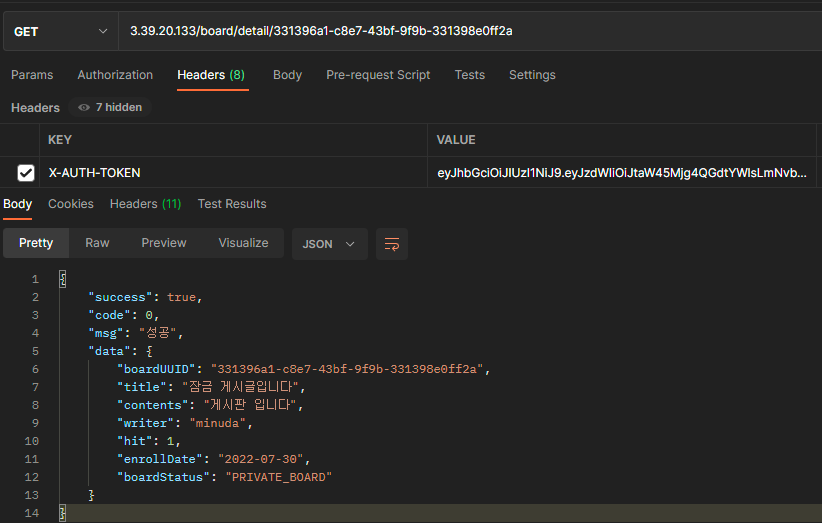
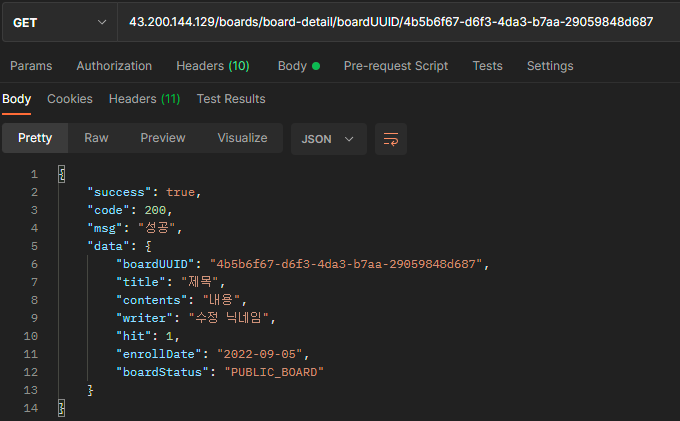
UPDATE : readme 서비스 기능 설명 수정 및 이미지 일부 변경 / 멤버 테이블 매핑 일부 수정

diff --git a/src/main/java/com/board/domain/member/entity/Member.java b/src/main/java/com/board/domain/member/entity/Member.java
@@ -69,7 +69,7 @@ public class Member {
     private  Boolean emailAuth;
 
     // 조인컬럼 (Baord)
-    @OneToMany(fetch = FetchType.LAZY)
+    @OneToMany(mappedBy = "writer", fetch = FetchType.LAZY, cascade = CascadeType.ALL, orphanRemoval = true)
     @JsonManagedReference
     private List<Board> boardList = new ArrayList<>();
 

diff --git a/README.md b/README.md
@@ -82,11 +82,10 @@
 
 </details>
 
+
 </br>
 
 ## 프로젝트 히스토리
-
-<details><summary>세부정보</summary>
 
 - 히스토리
   - 2022/07/25 ~ 31 : 회원-게시판 기능 구현
@@ -100,24 +99,21 @@
         - After ex) board = board.update(requestDTO.toEntity())
     - 쇼핑 (상품 / 장바구니 / 주문) 기능 추가 구현
 
-</details>
-
-
 </br>
 
 ## 기술 스택
-- Spring Boot (API Server)
-- Spring Security (Security)
-- JPA & QueryDSL (ORM)
-- MySQL (8.0 / Google Cloud SQL) (RDB)
-- AWS EC2 (Infra)
-- AWS S3 (Build Store)
-- ~Travis CI & AWS Codedeploy (CI/CD)~ - travis 무료 크레딧 만료로 git action으로 변경
-- Git Action & AWS Codedeploy (CI/CD) 
-- Nginx (Reverse Proxy Server)
-- Postman (Documentation)
-- DBeaver (Database tool)
-- IntelliJ (Development tool)
+- `Spring Boot (API Server)`
+- `Spring Security (Security)`
+- `JPA & QueryDSL (ORM)`
+- `MySQL (8.0 / Google Cloud SQL) (RDB)`
+- `AWS EC2 (Infra)`
+- `AWS S3 (Build Store)`
+- `~Travis CI & AWS Codedeploy (CI/CD)~ - travis 무료 크레딧 만료로 git action으로 변경`
+- `Git Action & AWS Codedeploy (CI/CD)`
+- `Nginx (Reverse Proxy Server)`
+- `Postman (Documentation)`
+- `DBeaver (Database tool)`
+- `IntelliJ (Development tool)`
 
 </br>
 
@@ -127,9 +123,9 @@
 
 </br>
 
-## 기능 및 사용방법
+## 서비스 기능 안내
 > JWT를 적용하여 일부 API를 제외하고는 토큰을 통해 접근 할 수 있습니다.
-
+>
 > 토큰 없이 접근가능한 API는 다음과 같습니다.
 > - "/sings/**" - 가입 / 로그인 / 토큰 재발행 / 이메일 인증
 > - "/exception/**" - 예외처리
@@ -137,29 +133,39 @@
 > - "/actuator/**" - 애플리케이션 상태 확인
 > - "/test" - 테스트
 
+
 <br/>
 
-### 테스트 계정
+### 테스트 계정 및 토큰 인증 안내
 ```bash 
-* email 
-  - wjdalsdnchlr@naver.com
-
+* email : wjdalsdnchlr@naver.com
 * password : qwer1234
+
+---
+
+* HTTP 헤더
+key : X-AUTH-TOKEN
+value : 엑세스 토큰값 (로그인시 Response 값으로 확인할 수 있습니다.)
+
 ```
 
 <br/>
 
 ### 회원가입
+
+<details><summary>세부정보</summary>
   
 ```bash 
 Post
-* 회원가입 : 3.39.20.133/sign/register
+* 회원가입 : 43.200.144.129/signs/register
 {
     "email" : "이메일주소",
     "password" : "패스워드",
     "nickname" : "닉네임"
 }
+
 ```
+
 <p align="center">
 <img src = "./img/join.png" width=100%>
 </p>
@@ -168,14 +174,19 @@ Post
 > * 회원가입 후 이메일 인증을 진행해야 정상적으로 로그인이 됩니다.
 > * 이메일 미 인증 후 로그인 시 이메일 인증을 해야된다는 오류 메시지가 전달됩니다.
 
+</details>
+
 <br/>
 
+
 ### 이메일 인증
+
+<details><summary>세부정보</summary>
   
 ```bash 
 Get
-* 이메일 인증 : 3.39.20.133/sign/confirm-email?email=이메일주소&authToken=엑세스토큰
-* 엑세스 토큰 유효시간 : 5분
+* 이메일 인증 : 43.200.144.129/sign/confirm-email?email=이메일주소&authToken=엑세스토큰
+* 인증 유효시간 : 5분
 * 회원가입 시 Response 값으로 나왔던 엑세스 토큰과 이메일주소로 진행하면 됩니다.
 * 인증방식 : 
   - Postman을 통한 인증방식
@@ -193,13 +204,17 @@ Get
 > * 회원가입 후 이메일 인증을 진행해야 정상적으로 로그인이 됩니다.
 > * 이메일 미 인증 후 로그인 시 이메일 인증을 해야된다는 오류 메시지가 전달됩니다.
 
+</details>
+
 <br/>
 
 ### 로그인
+
+<details><summary>세부정보</summary>
   
 ```bash 
 Post
-* 로그인 : 3.39.20.133/sign/login
+* 로그인 : 43.200.144.129/signs/login
 * 엑세스 토큰 유효시간 : 30분
 * 재발행 토큰 유효기간 : 7일
 
@@ -216,13 +231,17 @@ Post
 > * Response 값에 있는 토큰으로 토큰 없이 접근 가능한 API외에 다른 API들을 이용할 때 사용하시면 됩니다.
 > * Response 값에 재발행 토큰 값이 있는데, 이것으로 토큰 만료 후 토큰을 재발행 할 수 있습니다.
 
+</details>
+
 <br/>
 
 ### 토큰 재발행
+
+<details><summary>세부정보</summary>
   
 ```bash 
 Post
-* 토큰 재발행 : 3.39.20.133/sign/reissue
+* 토큰 재발행 : 43.200.144.129/signs/reissue
 {
     "accessToken" : "엑세스 토큰",
     "refreshToken" : "리프레시 토큰"
@@ -235,9 +254,13 @@ Post
 
 > * 토큰 재발행 시, 로그인할때 나온 Response 값(accessToken, refreshToken)으로 사용하시면 됩니다.
 
+</details>
+
 <br/>
 
 ### 토큰 사용 방법
+
+<details><summary>세부정보</summary>
   
 ```bash 
 * 각 API의 Headers 에서 Key값과 Value값을 넣어주세요
@@ -248,28 +271,57 @@ Post
 <img src = "./img/tokenAuth.png" width=100%>
 </p>
 
+</details>
+
 <br/>
 
 ### 내 정보 보기
+
+<details><summary>세부정보</summary>
   
 ```bash 
 Get
-* 내 정보 보기 : 3.39.20.133/member/myInfo/{회원UUID}
-* 로그인 할때 Response 값으로 나온 memberUUID를 가지고 조회 할 수 있습니다.
+* 내 정보 보기 : 43.200.144.129/members
 ```
 <p align="center">
 <img src = "./img/myInfo.png" width=100%>
 </p>
 
-> * 지금 로그인한 회원이, 조회할려는 회원과 동일인이 아닐 경우 본인이 아니라는 경고 값이 출력됩니다.
+</details>
+
+<br/>
+
+### 내 정보 수정
+
+<details><summary>세부정보</summary>
+  
+```bash 
+Get
+* 내 정보 수정 : 43.200.144.129/members
+* 닉네임과 보유 자금을 수정 할 수 있습니다.
+
+{
+    "nickname" : "수정 닉네임",
+    "money" : 30000000
+}
+
+```
+<p align="center">
+<img src = "./img/myInfoUpdate.png" width=100%>
+</p>
+
+</details>
+
 
 <br/>
 
 ### 게시글 작성
+
+<details><summary>세부정보</summary>
   
 ```bash
 Post 
-* 게시글 작성 : 3.39.20.133/board/write
+* 게시글 작성 : 43.200.144.129/boards
 * boardStatus : PRIVATE_BOARD - 게시글 잠금 / PUBLIC_BOARD - 공개 게시글
 {
     "title" : "제목",
@@ -283,13 +335,17 @@ Post
 
 > * boardStatus를 통해 게시글을 잠금할지 공개할지 선택할 수 있습니다.
 
+</details>
+
 <br/>
 
 ### 게시글 전체 조회
+
+<details><summary>세부정보</summary>
   
 ```bash
 Get 
-* 게시글 전체 조회 : 3.39.20.133/board/getAll
+* 게시글 전체 조회 : 43.200.144.129/boards
 ```
 <p align="center">
 <img src = "./img/getAll.png" width=100%>
@@ -297,13 +353,17 @@ Get
 
 > * boardStatus가 PUBLIC_BOARD인 전체 게시글을 조회 할 수 있습니다.
 
+</details>
+
 <br/>
 
 ### 내가 작성한 게시글 전체 조회
   
+<details><summary>세부정보</summary>
+
 ```bash
 Get 
-* 내가 작성한 게시글 전체 조회 : 3.39.20.133/board/{이메일주소}
+* 내가 작성한 게시글 전체 조회 : 43.200.144.129/boards/my-board-list/email/{이메일주소}
 ```
 <p align="center">
 <img src = "./img/myBoardInfo.png" width=100%>
@@ -313,13 +373,17 @@ Get
 > * 내가 작성한 PUBLIC_BOARD, PRIVATE_BOARD 모두 조회를 할 수 있습니다.
 > * 다만, 작성한 유저가 아닌 다른 유저가 내 게시물을 조회하려고 할 시 경고를 출력합니다.
 
+</details>
+
 <br/>
 
 ### 게시글 상세 조회
+
+<details><summary>세부정보</summary>
   
 ```bash
 Get 
-* 게시글 상세조회 : 3.39.20.133/board/detail/{게시글UUID}
+* 게시글 상세조회 : 43.200.144.129/boards/board-detail/boardUUID/{게시글UUID}
 ```
 <p align="center">
 <img src = "./img/boardDetail.png" width=100%>
@@ -331,13 +395,17 @@ Get
 > * PRIVATE_BOARD 게시물의 경우 본인이 아니면 조회 할 수 없습니다.
 > * 작성한 유저가 아닌 다른 유저가 PRIVATE_BOARD 게시물을 조회하려고 할 시 경고를 출력합니다.
 
+</details>
+
 <br/>
 
 ### 게시글 수정
+
+<details><summary>세부정보</summary>
   
 ```bash
 Put 
-* 게시글 수정 : 3.39.20.133/board/update/{게시글UUID}
+* 게시글 수정 : 43.200.144.129/boards/{게시글UUID}
 
 {
     "title" : "수정할 제목",
@@ -353,13 +421,17 @@ Put
 > * boardStatus 도 수정이 가능하며, 여기서 게시글을 잠금해제하거나 잠금할 수 있습니다.
 > * 타인이 내 게시글을 수정할려고 할 시, 경고가 출력됩니다.
 
+</details>
+
 <br/>
+
+<details><summary>세부정보</summary>
 
 ### 게시글 삭제
   
 ```bash
 DELETE 
-* 게시글 삭제 : 3.39.20.133/board/delete/{게시글UUID}
+* 게시글 삭제 : 43.200.144.129/boards/delete/{게시글UUID}
 ```
 <p align="center">
 <img src = "./img/deleteBoard.png" width=100%>
@@ -367,6 +439,8 @@ DELETE
 
 > * 내가 작성한 글을 삭제할 수 있습니다.
 > * 타인이 내 게시글을 삭제할려고 할 시, 경고가 출력됩니다.
+
+</details>
 
 <br/>
 
